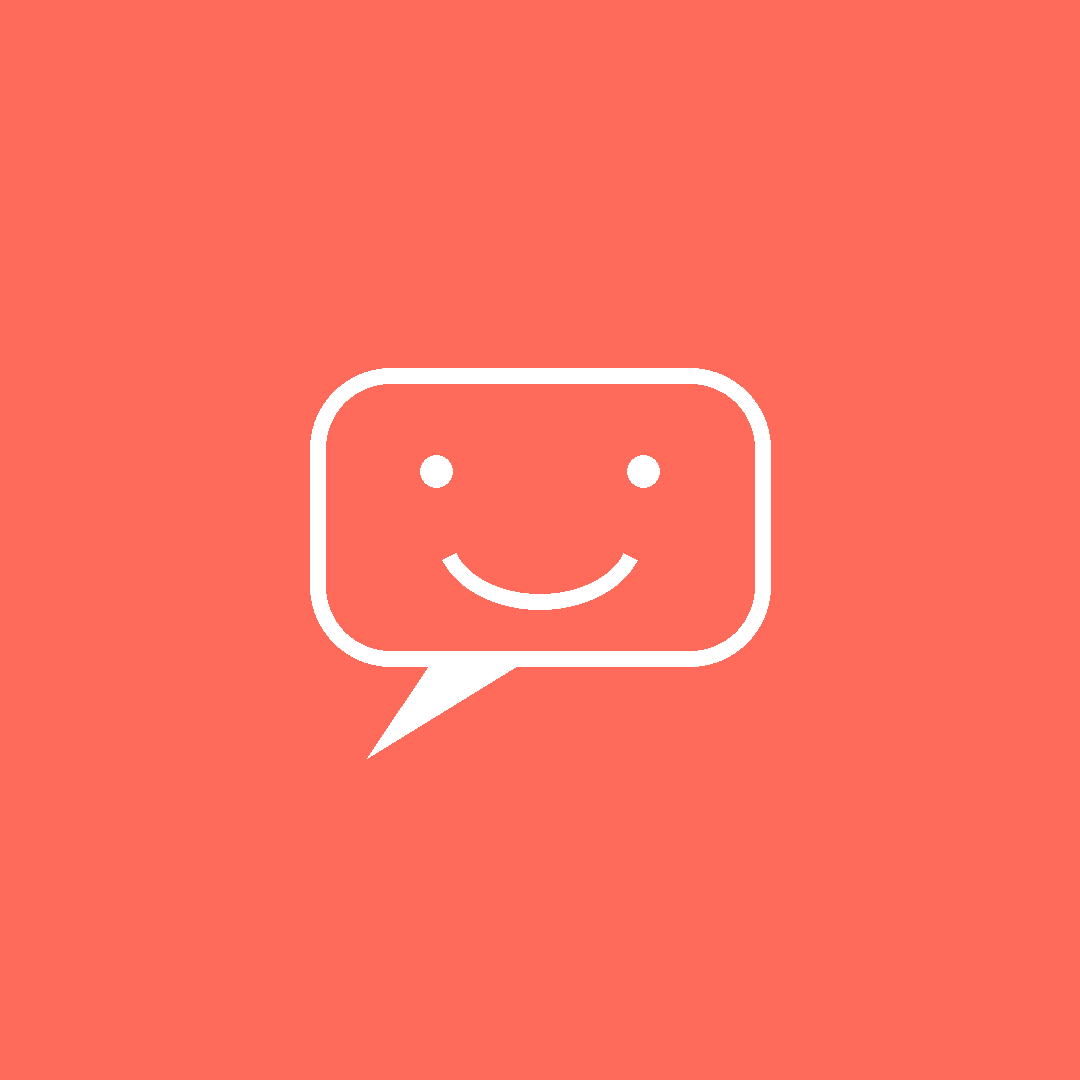
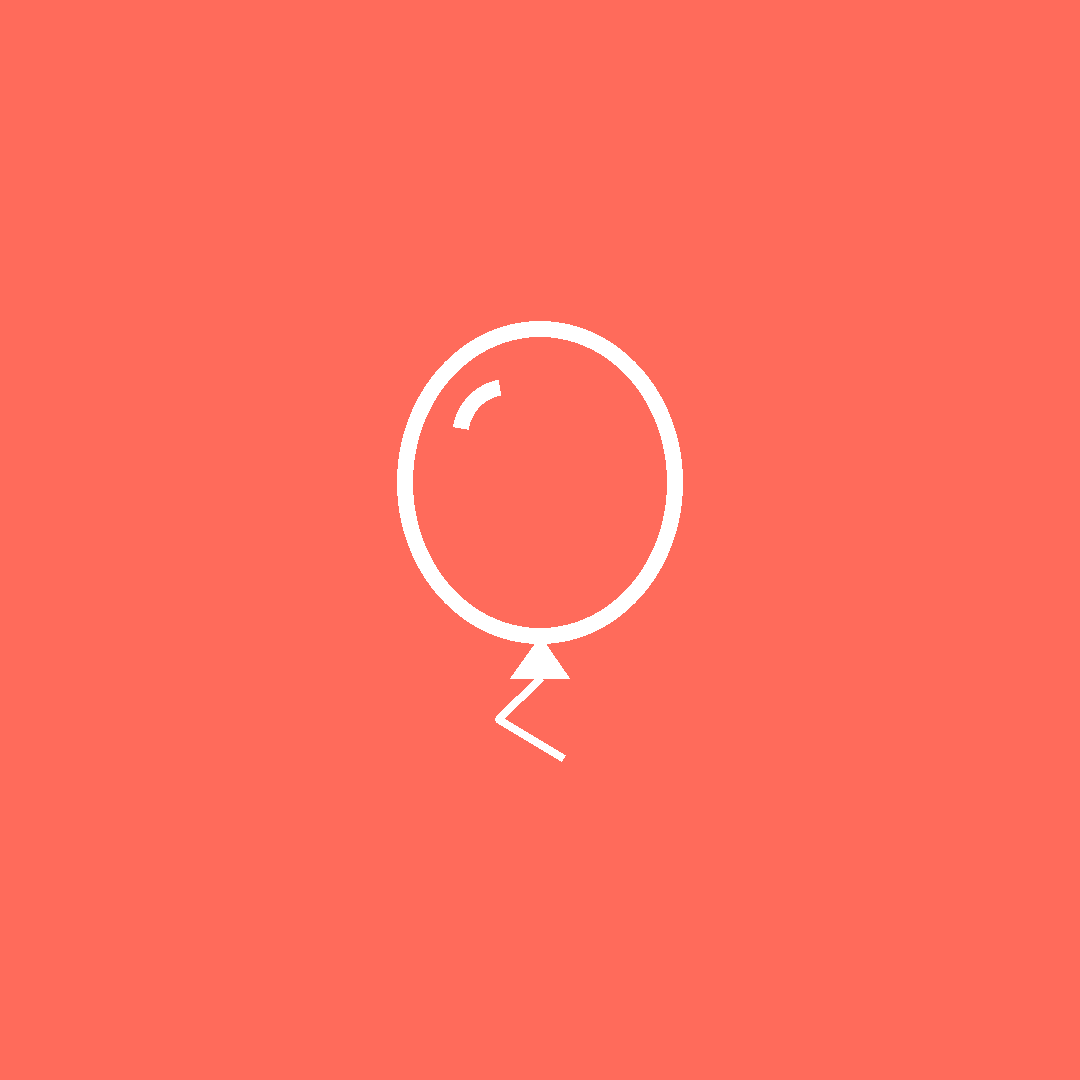
はじめての方へのアイコンを風船に、土曜の時間の書き方を「50分単位で選べる」に
Claude-Session: https://claude.ai/code/session_01Y7Jh2SBcj11bd2yfh8yv7S

Changed region(s): [[0.275, 0.275, 0.7333, 0.7028]]

diff --git a/index.html b/index.html
@@ -105,7 +105,7 @@ h1,h2,h3{font-family:'Zen Maru Gothic',sans-serif}
 <div role="img" aria-label="写真の場所" style="background:#EEE8FC;border:2px dashed #8E6CE0;border-radius:16px;height:170px;display:flex;align-items:center;justify-content:center;padding:14px;box-sizing:border-box;text-align:center;font-size:13px;margin-bottom:12px">写真：子どもが持ってきたぬいぐるみやおもちゃが机に並んでいる様子</div>
 <p style="margin:0;font-family:'Zen Maru Gothic',sans-serif;font-weight:900;font-size:40px;color:#8E6CE0">04</p>
 <h3 style="margin:4px 0 8px;font-size:21px">手ぶらで、好きなときに</h3>
-<p style="margin:0;font-size:15px">教材は先生が用意するので、最初にそろえる物はありません。好きなおもちゃやぬいぐるみを持ってきたら、それがその日のテーマに。土曜は50分ごとのコマから、ご家庭の予定に合わせて選べます。</p>
+<p style="margin:0;font-size:15px">教材は先生が用意するので、最初にそろえる物はありません。好きなおもちゃやぬいぐるみを持ってきたら、それがその日のテーマに。土曜は、参加する時間を50分単位で選べます。</p>
 </div>
 </div>
 </div>
@@ -155,7 +155,7 @@ h1,h2,h3{font-family:'Zen Maru Gothic',sans-serif}
 <p style="margin:0 0 16px;font-size:15px">留学というより、親戚みんなが集まったおうちのような、あったかい場所。年齢のちがう子どもたちが、風船あそび・クラフト・ゲームを英語で楽しみます。大きい子が小さい子に教えたり、いろいろな交流が生まれます。1回だけの参加もOK。</p>
 <p style="margin:0;font-size:15px"><strong>第1・3土曜</strong> 10:10〜16:10</p>
 <p style="margin:0;font-size:15px"><strong>第2・4土曜</strong> 10:10〜12:45</p>
-<p style="margin:6px 0 0;font-size:14px;color:#4B5563">50分ごとのコマに分かれていて、好きなコマを選んで参加できます。続けて受ければ、ランチもはさんで1日英語で過ごす「プチ留学」のような過ごし方もできます。「まだ帰りたくない！」という子も多いクラスです。</p>
+<p style="margin:6px 0 0;font-size:14px;color:#4B5563">参加する時間は50分単位で選べます。続けて受ければ、ランチもはさんで1日英語で過ごす「プチ留学」のような過ごし方もできます。「まだ帰りたくない！」という子も多いクラスです。</p>
 <p style="margin:12px 0 0;font-family:'Zen Maru Gothic',sans-serif;font-weight:900;font-size:30px">月4コマ 8,800円</p>
 </div>
 <div style="background:#fff;border-radius:24px;padding:28px;border-top:10px solid #3DA9E0">

diff --git a/tools/make_instagram.py b/tools/make_instagram.py
@@ -23,6 +23,11 @@ def icon(d, kind, cx, cy, s, col=WHITE, w=None):
         d.ellipse([cx-s*0.45-w, cy-s*0.3-w, cx-s*0.45+w, cy-s*0.3+w], fill=col)
         d.ellipse([cx+s*0.45-w, cy-s*0.3-w, cx+s*0.45+w, cy-s*0.3+w], fill=col)
         d.arc([cx-s*0.45, cy-s*0.35, cx+s*0.45, cy+s*0.3], 20, 160, fill=col, width=w)
+    elif kind == "balloon":  # 風船
+        d.ellipse([cx-s*0.62, cy-s*0.95, cx+s*0.62, cy+s*0.45], outline=col, width=w)
+        d.polygon([(cx, cy+s*0.42), (cx-s*0.13, cy+s*0.6), (cx+s*0.13, cy+s*0.6)], fill=col)
+        d.line([(cx, cy+s*0.6), (cx-s*0.18, cy+s*0.78), (cx+s*0.1, cy+s*0.95)], fill=col, width=max(4, w//2), joint="curve")
+        d.arc([cx-s*0.38, cy-s*0.7, cx+s*0.1, cy-s*0.2], 190, 260, fill=col, width=w)
     elif kind == "house":
         L([(cx-s, cy-s*0.05), (cx, cy-s*0.9), (cx+s, cy-s*0.05)])
         d.rectangle([cx-s*0.75, cy-s*0.15, cx+s*0.75, cy+s*0.85], outline=col, width=w)
@@ -59,7 +64,7 @@ def icon(d, kind, cx, cy, s, col=WHITE, w=None):
             d.ellipse([cx+k*s-w, cy-s*0.12-w, cx+k*s+w, cy-s*0.12+w], fill=col)
 
 HL = [  # key, title, color, icon
-    ("01", "はじめての方へ", RED, "hello"),
+    ("01", "はじめての方へ", RED, "balloon"),
     ("02", "教室（柏の葉）", MINT, "house"),
     ("03", "ESHA", SKY, "laptop"),
     ("04", "今月のテーマ", GRAPE, "calendar"),
@@ -131,12 +136,12 @@ def story(name, col, ic, title, blocks, foot="Ernie's English Academy", img=None
     return y
 
 S = []
-S.append(story("story_01_はじめての方へ_1", RED, "hello", "はじめての方へ", [
+S.append(story("story_01_はじめての方へ_1", RED, "balloon", "はじめての方へ", [
     ("big", "英語が苦手でも、先生が大好きになる。"),
     ("text", "ニューヨーク出身のアーニー先生と、マリ先生。指導歴20年以上、口コミだけで続いてきた、家族みたいな英語教室です。"),
     ("text", "ほかの英語教室が合わなかった子も、ここでは楽しく通っています。"),
 ]))
-S.append(story("story_01_はじめての方へ_2", RED, "hello", "はじめての方へ", [
+S.append(story("story_01_はじめての方へ_2", RED, "balloon", "はじめての方へ", [
     ("big", "2つの通い方"),
     ("label", "柏の葉キャンパス駅3分・チコル内"),
     ("accent", "教室（幼稚園〜中学生）"),
@@ -157,7 +162,7 @@ S.append(story("story_02_教室_1", MINT, "house", "教室（柏の葉）", [
 S.append(story("story_02_教室_2", MINT, "house", "土曜クラス", [
     ("big", "親戚が集まったおうちみたいな、あったかい土曜日。"),
     ("text", "幼稚園生から中学生までが一緒に、風船あそびやクラフトを英語で。大きい子が小さい子に教えてくれます。一人っ子のお子さまにも。"),
-    ("text", "好きなおもちゃやぬいぐるみを持ってきてOK。50分ごとのコマから、好きなコマを選んで参加できます。"),
+    ("text", "好きなおもちゃやぬいぐるみを持ってきてOK。参加する時間は、50分単位で選べます。"),
 ]))
 S.append(story("story_03_ESHA_1", SKY, "laptop", "ESHA", [
     ("big", "毎週土曜の夜は、おうちが英語の遊び場に。"),
